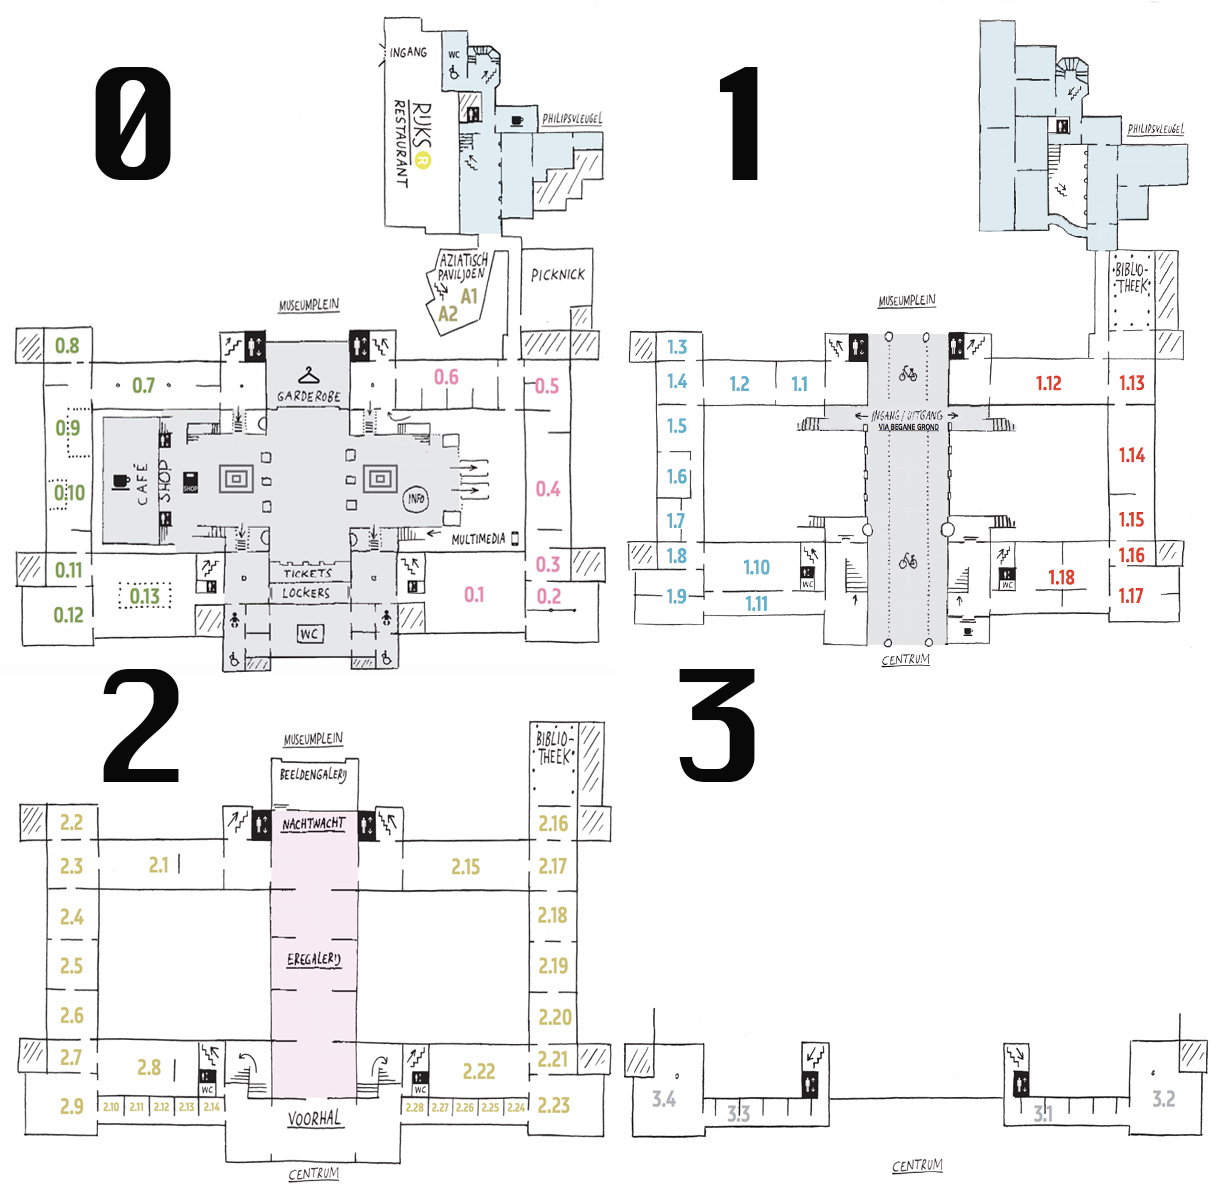
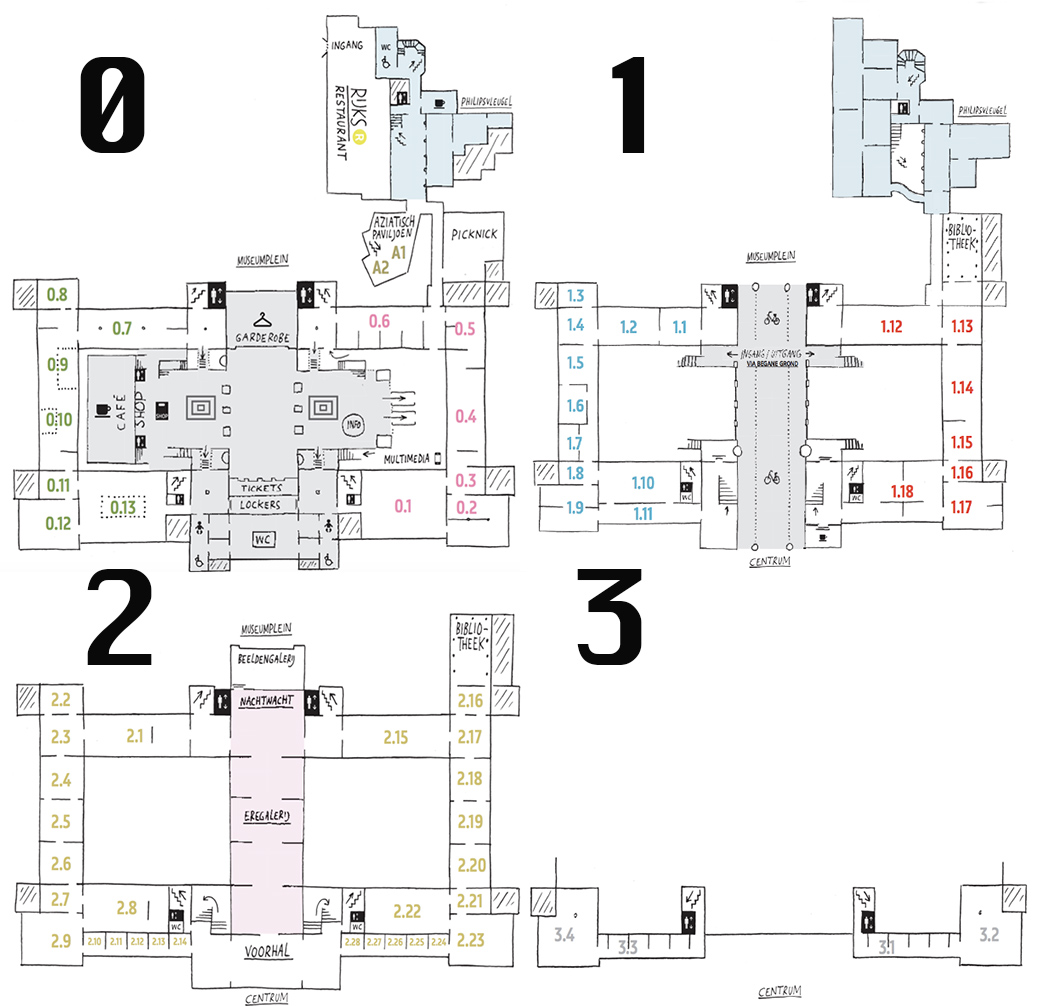
Modified names to be more accurate

diff --git a/public/js/imagegenerator.js b/public/js/imagegenerator.js
@@ -91,7 +91,7 @@ function setupPlan() {
     var canvas = document.getElementById("plattegrond");
     var ctx = canvas.getContext("2d");
     var base_image = new Image();
-    base_image.src = 'images/plattegrond2.jpg';
+    base_image.src = 'images/plattegrond.jpg';
     base_image.onload = function(){
         ctx.drawImage(base_image, 0, 0);
     }

diff --git a/public/route.html b/public/route.html
@@ -32,7 +32,7 @@
 
 <canvas id="myCanvas" width="1186" height="406"></canvas>
 
-<canvas id="plattegrond" width="1226" height="1184"></canvas>
+<canvas id="plattegrond" width="1024" height="1006"></canvas>
 
 
 <!-- jQuery library -->
